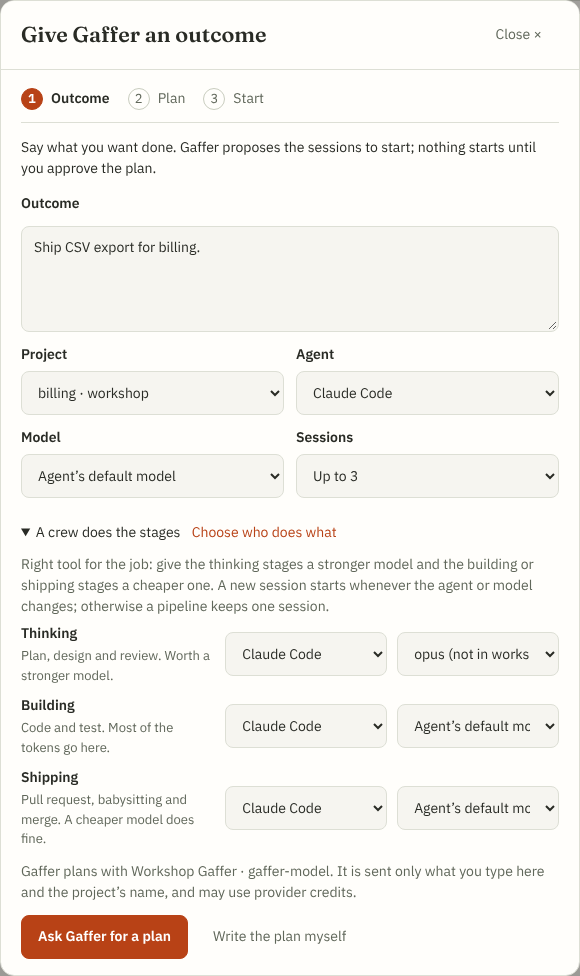
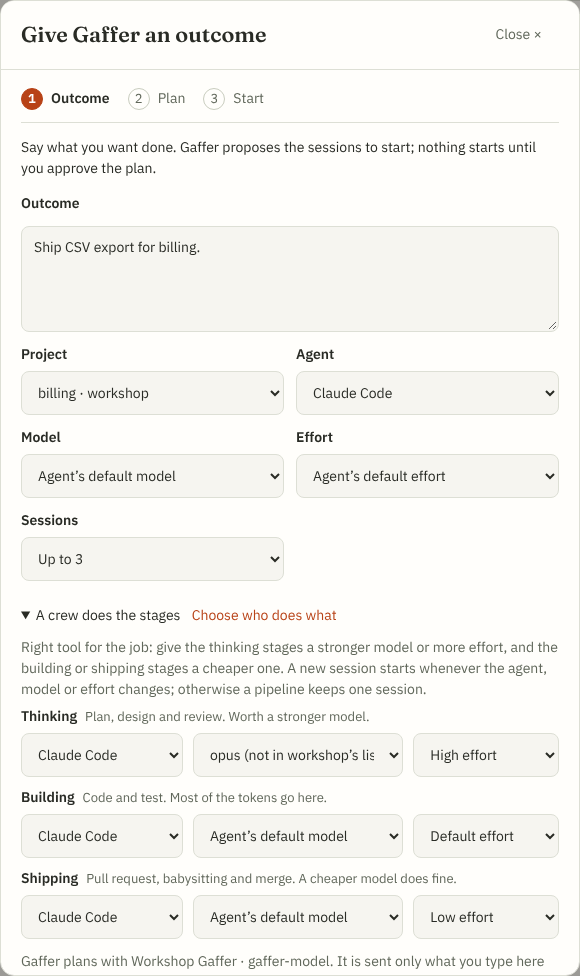
Set effort for an outcome or per crew role
Each stage carries the effort of the crew role that does it, so the thinking
stages can run harder than babysitting and merging. A change of effort
between stages starts a new session, like a change of agent or model.

Claude-Session: https://claude.ai/code/session_011MNNzptsv6jTWLPjXiBdGs

diff --git a/web/src/lib/GafferOutcome.svelte b/web/src/lib/GafferOutcome.svelte
@@ -9,7 +9,7 @@
   import YoloDialog from './launch/YoloDialog.svelte'
   import { yoloCanStart, type YoloGate } from './launchBar'
   import { CATALOGUE } from './catalogue'
-  import type { MachineModels, ModelFavourite } from './models'
+  import { effortChoices, type MachineModels, type ModelFavourite } from './models'
   import WorkspaceDialog from './terminal/WorkspaceDialog.svelte'
   import { readFloorDefaults, writeFloorDefaults } from './gafferFloor'
   import { BUILT_IN_GOAL_PROMPTS } from './gafferPrompts'
@@ -28,7 +28,7 @@
   let maxReviews = $state(12), hours = $state(24)
   let trust = $state(false)
   // The model every stage uses unless a crew role is given its own. Empty is the agent's default.
-  let model = $state('')
+  let model = $state(''), effort = $state('')
   // What each agent offers on the project's machine, read once per agent. A failed read leaves favourites, suggestions and Other.
   let offered = $state<Record<string, MachineModels | null>>({}), favourites = $state<ModelFavourite[]>([])
   // YOLO: the account setting, and whether the person confirmed it for this outcome. It is never remembered.
@@ -171,22 +171,26 @@
               <option value="">Choose a project…</option>
               {#each projects as item (item.id)}<option value={item.id}>{item.name}{item.machine ? ` · ${item.machine}` : ''}</option>{/each}
             </select></label>
-            <label>Agent<select aria-label="Agent" bind:value={tool} disabled={planning || !tools.length} onchange={() => { model = ''; for (const item of CREW_ROLES) crew[item.role] = { tool, model: '' } }}>
+            <label>Agent<select aria-label="Agent" bind:value={tool} disabled={planning || !tools.length} onchange={() => { model = ''; effort = ''; for (const item of CREW_ROLES) crew[item.role] = { tool, model: '', effort: '' } }}>
               {#if !tools.length}<option value="">{project ? 'None available' : 'Choose a project first'}</option>{/if}
               {#each tools as id (id)}<option value={id}>{chatToolName(id)}</option>{/each}
             </select></label>
             <label>Model<GafferModelSelect label="Model" {tool} bind:value={model} machine={offeredFor(tool)} {favourites} host={machine?.host ?? ''} disabled={planning || !tool} onchange={next => { for (const item of CREW_ROLES) if (crew[item.role].tool === tool) crew[item.role].model = next }}/></label>
+            <label>Effort<select aria-label="Effort" bind:value={effort} disabled={planning || effortChoices(tool).length < 2} onchange={() => { for (const item of CREW_ROLES) if (crew[item.role].tool === tool) crew[item.role].effort = effort }}>
+              {#each effortChoices(tool) as level (level)}<option value={level}>{level ? level[0].toUpperCase() + level.slice(1) : effortChoices(tool).length < 2 ? 'Not offered by this agent' : 'Agent’s default effort'}</option>{/each}
+            </select></label>
             <label>Sessions<select aria-label="Sessions" bind:value={wanted} disabled={planning}>
               {#each Array.from({ length: cap }, (_, n) => n + 1) as n (n)}<option value={n}>Up to {n}</option>{/each}
             </select></label>
           </div>
-          <details class="limit-editor crew"><summary>{crewTools.every(id => id === tool) && CREW_ROLES.every(item => !crew[item.role].model.trim()) ? 'One agent does every stage' : 'A crew does the stages'} <span>Choose who does what</span></summary>
-            <p class="hint">Right tool for the job: give the thinking stages a stronger model and the building or shipping stages a cheaper one. A new session starts whenever the agent or model changes; otherwise a pipeline keeps one session.</p>
+          <details class="limit-editor crew"><summary>{crewTools.every(id => id === tool) && CREW_ROLES.every(item => crew[item.role].model.trim() === model.trim() && (crew[item.role].effort ?? '') === effort) ? 'One agent does every stage' : 'A crew does the stages'} <span>Choose who does what</span></summary>
+            <p class="hint">Right tool for the job: give the thinking stages a stronger model or more effort, and the building or shipping stages a cheaper one. A new session starts whenever the agent, model or effort changes; otherwise a pipeline keeps one session.</p>
             <div class="crew-rows">
               {#each CREW_ROLES as item (item.role)}<div class="crew-row" role="group" aria-label={`${item.label} crew`}>
                 <div class="crew-role"><strong>{item.label}</strong><span>{item.does}</span></div>
-                <select aria-label={`${item.label} agent`} bind:value={crew[item.role].tool} disabled={planning || !tools.length} onchange={() => { crew[item.role].model = crew[item.role].tool === tool ? model : '' }}>{#each tools as id (id)}<option value={id}>{chatToolName(id)}</option>{/each}</select>
+                <select aria-label={`${item.label} agent`} bind:value={crew[item.role].tool} disabled={planning || !tools.length} onchange={() => { const same = crew[item.role].tool === tool; crew[item.role].model = same ? model : ''; crew[item.role].effort = same ? effort : '' }}>{#each tools as id (id)}<option value={id}>{chatToolName(id)}</option>{/each}</select>
                 <GafferModelSelect label={`${item.label} model`} tool={crew[item.role].tool} bind:value={crew[item.role].model} machine={offeredFor(crew[item.role].tool)} {favourites} host={machine?.host ?? ''} disabled={planning}/>
+                <select aria-label={`${item.label} effort`} bind:value={crew[item.role].effort} disabled={planning || effortChoices(crew[item.role].tool).length < 2}>{#each effortChoices(crew[item.role].tool) as level (level)}<option value={level}>{level ? `${level[0].toUpperCase()}${level.slice(1)} effort` : effortChoices(crew[item.role].tool).length < 2 ? 'No effort setting' : 'Default effort'}</option>{/each}</select>
               </div>{/each}
             </div>
           </details>
@@ -262,9 +266,9 @@
   .add{justify-self:start}
   .limit-editor summary{min-height:44px;display:list-item;align-content:center;cursor:pointer;font-variant-numeric:tabular-nums}.limit-editor summary span{color:var(--accent-text);margin-left:8px}
   .steps{list-style:none;display:flex;gap:6px 18px;flex-wrap:wrap;margin:0;padding:0 0 12px;border-bottom:1px solid var(--line);color:var(--muted);font-size:0.875rem}.steps li{display:flex;align-items:center;gap:8px}.steps .n{display:inline-grid;place-items:center;width:22px;height:22px;border-radius:50%;border:1px solid var(--line-strong);font-variant-numeric:tabular-nums;font-size:0.8125rem}.steps li[aria-current]{color:var(--ink);font-weight:600}.steps li[aria-current] .n,.steps li.done .n{background:var(--accent);border-color:var(--accent);color:var(--accent-ink)}
-  .crew-rows{display:grid;gap:10px;padding-top:6px}.crew-row{display:grid;grid-template-columns:1.2fr 1fr 1fr;gap:10px;align-items:center}.crew-role{display:grid;gap:2px;min-width:0}.crew-role span{font-size:0.8125rem;color:var(--muted);font-weight:400}
+  .crew-rows{display:grid;gap:10px;padding-top:6px}.crew-row{display:grid;grid-template-columns:1fr 1.3fr .9fr;gap:6px 10px;align-items:start}.crew-role{grid-column:1/-1;display:flex;flex-wrap:wrap;align-items:baseline;gap:2px 8px;min-width:0}.crew-role span{font-size:0.8125rem;color:var(--muted);font-weight:400}
   .stage-pick{display:flex;flex-wrap:wrap;gap:6px}.stage-chip{font:inherit;font-size:0.875rem;min-height:36px;padding:4px 12px;border-radius:999px;border:1px solid var(--line);background:var(--bg);color:var(--muted);cursor:pointer}.stage-chip[aria-pressed=true]{background:var(--tint);border-color:var(--accent);color:var(--ink);font-weight:600}
-  @media(max-width:559px){.crew-row{grid-template-columns:1fr}}@media(pointer:coarse){.stage-chip{min-height:44px}}
+  @media(max-width:479px){.crew-row{grid-template-columns:1fr}}@media(pointer:coarse){.stage-chip{min-height:44px}}
   .approvals{border:0;margin:0;padding:0;display:grid;gap:6px;min-width:0}.approvals legend{font-weight:600;padding:0;margin-bottom:6px}
   .choice{display:inline-flex;border:1px solid var(--line);border-radius:10px;overflow:hidden;justify-self:start}.choice label{display:flex;align-items:center;gap:8px;min-height:44px;padding:0 16px;font-weight:600;cursor:pointer;color:var(--muted)}.choice label+label{border-left:1px solid var(--line)}.choice label.on{background:var(--tint);color:var(--ink)}.choice label.off{cursor:not-allowed;opacity:.6}.choice input{width:18px;height:18px;min-height:0;margin:0;padding:0;accent-color:var(--accent)}
   .hint.warn{color:var(--warn)}

diff --git a/web/src/lib/api.ts b/web/src/lib/api.ts
@@ -253,13 +253,13 @@ export type GafferOutcomePlan = { summary: string; sessions: { title: string; pr
 export async function planGafferOutcome(p: GafferProvider, input: { objective: string; project: string; sessions: number }, signal?: AbortSignal): Promise<GafferOutcomePlan> {
   return (await req(`/api/v2/gaffer/providers/${encodeURIComponent(p.id)}/plan`, { method: 'POST', body: json({ revision: p.revision, ...input }), signal })).json()
 }
-export type GafferOutcomeStage = { kind: string; tool: string; model?: string; state: 'pending' | 'running' | 'done'; sessionId?: string; conversationId?: string; summary?: string; startedAt?: number; endedAt?: number; reviews?: number; inputTokens?: number; outputTokens?: number; usageReported?: boolean }
+export type GafferOutcomeStage = { kind: string; tool: string; model?: string; effort?: string; state: 'pending' | 'running' | 'done'; sessionId?: string; conversationId?: string; summary?: string; startedAt?: number; endedAt?: number; reviews?: number; inputTokens?: number; outputTokens?: number; usageReported?: boolean }
 /** Gaffer's account of a whole outcome, with pipelines it suggests adding. A proposal is nothing until the person approves it. */
 export type GafferOutcomeReport = { text: string; at: number; model: string; inputTokens: number; outputTokens: number; usageReported: boolean; proposals?: { title: string; prompt: string; stages?: string[]; why?: string }[] }
 export type GafferOutcomeSession = { key: string; title: string; prompt: string; state: 'waiting' | 'starting' | 'following' | 'advancing' | 'ready_to_merge' | 'done' | 'unfollowed' | 'failed' | 'cancelled'; note: string; sessionId?: string; conversationId?: string; updatedAt: number; stages?: GafferOutcomeStage[]; stage?: number; workDir?: string; autoMerge?: boolean; mergeApproved?: boolean }
 /** An approved plan the controller starts and follows. `state` is "starting" while it still has sessions to start. */
 export type GafferOutcome = { id: string; revision: number; objective: string; state: 'starting' | 'settled' | 'stopped'; note: string; agentId: string; projectId: string; projectName: string; dir: string; tool: string; model?: string; trust?: boolean; yolo?: boolean; providerId: string; maxReviews: number; hours: number; sessions: GafferOutcomeSession[]; report?: GafferOutcomeReport; createdAt: number; updatedAt: number }
-export type GafferOutcomeInput = { objective: string; projectId: string; tool: string; model: string; trust: boolean; yolo?: boolean; autoMerge: boolean; sessions: { title: string; prompt: string; stages?: { kind: string; tool: string; model: string }[] }[]; maxReviews: number; hours: number; confirmed: true }
+export type GafferOutcomeInput = { objective: string; projectId: string; tool: string; model: string; trust: boolean; yolo?: boolean; autoMerge: boolean; sessions: { title: string; prompt: string; stages?: { kind: string; tool: string; model: string; effort?: string }[] }[]; maxReviews: number; hours: number; confirmed: true }
 const outcomePath = (id: string) => `/api/v2/gaffer/outcomes/${encodeURIComponent(id)}`
 /** Tries a stopped pipeline again. A step that never started is asked for afresh; a session that did start is kept. */
 export async function retryGafferPipeline(o: Pick<GafferOutcome, 'id' | 'revision'>, key: string, signal?: AbortSignal): Promise<GafferOutcome> { return (await req(`${outcomePath(o.id)}/sessions/${encodeURIComponent(key)}/retry`, { method: 'POST', body: json({ revision: o.revision }), signal })).json() }

diff --git a/web/src/lib/gafferOutcome.ts b/web/src/lib/gafferOutcome.ts
@@ -209,7 +209,7 @@ export const STAGES = [
 ] as const
 export type StageKind = typeof STAGES[number]['kind']
 export type CrewRole = 'think' | 'build' | 'ship'
-export type Crew = Record<CrewRole, { tool: string; model: string }>
+export type Crew = Record<CrewRole, { tool: string; model: string; effort?: string }>
 export const CREW_ROLES: { role: CrewRole; label: string; does: string }[] = [
   { role: 'think', label: 'Thinking', does: 'Plan, design and review. Worth a stronger model.' },
   { role: 'build', label: 'Building', does: 'Code and test. Most of the tokens go here.' },
@@ -226,16 +226,16 @@ export function orderStages(kinds: Iterable<string>): StageKind[] {
 }
 
 /** What is sent for one pipeline: each chosen stage with the agent and model of the crew role that does it. */
-export function stagePlan(kinds: Iterable<string>, crew: Crew): { kind: string; tool: string; model: string }[] {
+export function stagePlan(kinds: Iterable<string>, crew: Crew): { kind: string; tool: string; model: string; effort?: string }[] {
   return orderStages(kinds).map(kind => {
     const role = STAGES.find(stage => stage.kind === kind)!.role
-    return { kind, tool: crew[role].tool, model: crew[role].model.trim() }
+    return { kind, tool: crew[role].tool, model: crew[role].model.trim(), ...(crew[role].effort ? { effort: crew[role].effort } : {}) }
   })
 }
 
-/** How many separate agent sessions a pipeline will use: a new one each time the agent or model changes. */
-export function sessionCount(plan: { tool: string; model: string }[]): number {
-  return plan.reduce((count, stage, index) => count + (index === 0 || stage.tool !== plan[index - 1].tool || stage.model !== plan[index - 1].model ? 1 : 0), 0)
+/** How many separate agent sessions a pipeline will use: a new one each time the agent, model or effort changes. */
+export function sessionCount(plan: { tool: string; model: string; effort?: string }[]): number {
+  return plan.reduce((count, stage, index) => count + (index === 0 || stage.tool !== plan[index - 1].tool || stage.model !== plan[index - 1].model || (stage.effort ?? '') !== (plan[index - 1].effort ?? '') ? 1 : 0), 0)
 }
 
 export type TrackNode = { kind: string; label: string; state: 'done' | 'running' | 'waiting' | 'pending' | 'failed'; tool: string; model: string; summary: string }

diff --git a/web/src/lib/factory/Factory.svelte b/web/src/lib/factory/Factory.svelte
@@ -128,7 +128,7 @@
   const crew = (piece: GafferOutcomeSession, record: Outcome) => {
     const stage = piece.stages?.[piece.stage ?? 0]
     const tool = stage?.tool ?? record.tool, model = stage?.model ?? record.model ?? ''
-    return `${chatToolName(tool)}${model ? ` · ${model}` : ''}`
+    return `${chatToolName(tool)}${model ? ` · ${model}` : ''}${stage?.effort ? ` · ${stage.effort} effort` : ''}`
   }
 </script>
 

diff --git a/internal/gaffer/outcome_runs.go b/internal/gaffer/outcome_runs.go
@@ -20,7 +20,7 @@ import (
 
 // OutcomeLaunch is one approved session for the launch path to start.
 type OutcomeLaunch struct {
-	AgentID, RequestID, Title, Tool, Model, Dir, ProjectID, Prompt string
+	AgentID, RequestID, Title, Tool, Model, Effort, Dir, ProjectID, Prompt string
 	// LinkProjectID ties a later stage's session to the outcome's project in
 	// the session list. It is not a project launch: no worktree is made for it.
 	LinkProjectID string
@@ -71,6 +71,8 @@ type OutcomeStageInput struct {
 	Kind  string `json:"kind"`
 	Tool  string `json:"tool,omitempty"`
 	Model string `json:"model,omitempty"`
+	// Effort is how hard the stage's agent thinks: empty for its own default.
+	Effort string `json:"effort,omitempty"`
 }
 
 // StageKinds is the order a pipeline runs in. A pipeline may leave stages
@@ -279,6 +281,9 @@ func outcomePieces(items []OutcomeSession, tool, model string, autoMerge bool, t
 			if stageTool == "" {
 				stageTool, stageModel = tool, model
 			}
+			if stage.Effort != "" && (!terminalproto.ValidEffort(stage.Effort) || !terminalproto.ToolTakesEffort(stageTool)) {
+				return nil, invalid("sessions", "Choose low, medium or high effort, for an agent that takes one, in “"+title+"”.")
+			}
 			if !terminalproto.ReviewedChatTool(stageTool) || stageModel != "" && !terminalproto.ValidModel(stageModel) {
 				return nil, invalid("sessions", "Choose an agent that can run a Gaffer chat, and a model name it accepts, for every stage of “"+title+"”.")
 			}
@@ -286,7 +291,7 @@ func outcomePieces(items []OutcomeSession, tool, model string, autoMerge bool, t
 			if err != nil {
 				return nil, err
 			}
-			piece.Stages = append(piece.Stages, store.GafferOutcomeStage{Kind: stage.Kind, Tool: stageTool, Model: stageModel, RequestID: id})
+			piece.Stages = append(piece.Stages, store.GafferOutcomeStage{Kind: stage.Kind, Tool: stageTool, Model: stageModel, Effort: stage.Effort, RequestID: id})
 		}
 		if len(piece.Stages) > 0 {
 			piece.Stages[0].RequestID = request
@@ -627,8 +632,8 @@ func (s *Service) advancePipeline(ctx context.Context, o store.GafferOutcome, it
 	if next > 0 {
 		prev = item.Stages[next-1]
 	}
-	if next > 0 && prev.State == "done" && prev.Tool == stage.Tool && prev.Model == stage.Model && item.ConversationID != "" {
-		// Same agent and model: the session carries on, under a fresh goal and budget for the new stage.
+	if next > 0 && prev.State == "done" && prev.Tool == stage.Tool && prev.Model == stage.Model && prev.Effort == stage.Effort && item.ConversationID != "" {
+		// Same agent, model and effort: the session carries on, under a fresh goal and budget for the new stage.
 		v, err := s.Goal(uid, item.ConversationID)
 		if err == nil && v.SetupAllowed {
 			in := GoalSetupInput{GoalInput: GoalInput{GoalPins: v.Pins, Text: goal, MaxReviews: o.MaxReviews, Hours: o.Hours}, ConversationRevision: v.ConversationRevision, Confirmed: true, Action: "start"}
@@ -683,6 +688,7 @@ func (s *Service) runOutcomeSession(ctx context.Context, o store.GafferOutcome, 
 	if staged {
 		stage := item.Stages[item.Stage]
 		launch.RequestID, launch.Tool, launch.Model, launch.Prompt = stage.RequestID, stage.Tool, stage.Model, stagePrompt(o, item, item.Stage)
+		launch.Effort = stage.Effort
 		launch.Trust = o.Trust && (stage.Tool == "opencode" || stage.Tool == "antigravity")
 		launch.Title = clipBytes(item.Title, 60) + " · " + stage.Kind
 		goal = StageGoal(o.Objective, item.Title, stage.Kind)

diff --git a/internal/gaffer/outcome_runs_test.go b/internal/gaffer/outcome_runs_test.go
@@ -833,3 +833,36 @@ func TestYoloIsThePersonsChoiceAndReachesEveryStageLaunch(t *testing.T) {
 		t.Fatalf("yolo launches: %+v", asked)
 	}
 }
+
+func TestAStageRunsAtItsOwnEffort(t *testing.T) {
+	r := outcomeFixture(t)
+	r.s.StartGoalSupervisor()
+	in := pipelineInput(r, false)
+	for i := range in.Sessions[0].Stages {
+		in.Sessions[0].Stages[i].Tool, in.Sessions[0].Stages[i].Model = "claude", ""
+	}
+	in.Sessions[0].Stages[0].Effort = "high"
+	created, err := r.s.CreateOutcome(r.p.UserID, in)
+	if err != nil {
+		t.Fatal(err)
+	}
+	deadline := time.Now().Add(10 * time.Second)
+	for len(r.starter.asked()) == 0 && time.Now().Before(deadline) {
+		time.Sleep(20 * time.Millisecond)
+	}
+	asked := r.starter.asked()
+	if len(asked) != 1 || asked[0].Effort != "high" || asked[0].Tool != "claude" {
+		t.Fatalf("effort launch: %+v", asked)
+	}
+	if view, err := r.s.Outcome(r.p.UserID, created.ID); err != nil || view.Sessions[0].Stages[0].Effort != "high" || view.Sessions[0].Stages[1].Effort != "" {
+		t.Fatalf("saved efforts: %+v %v", view, err)
+	}
+	// An effort the agent cannot take, or one reet does not know, is refused before anything is saved.
+	for _, bad := range []struct{ tool, effort string }{{"opencode", "high"}, {"claude", "enormous"}} {
+		in := pipelineInput(r, false)
+		in.Sessions[0].Stages[0].Tool, in.Sessions[0].Stages[0].Model, in.Sessions[0].Stages[0].Effort = bad.tool, "", bad.effort
+		if _, err := r.s.CreateOutcome(r.p.UserID, in); err == nil {
+			t.Fatalf("%+v was accepted", bad)
+		}
+	}
+}

diff --git a/internal/api/gaffer_outcomes.go b/internal/api/gaffer_outcomes.go
@@ -234,7 +234,7 @@ func (o outcomeStarter) StartOutcomeSession(ctx context.Context, uid int64, in g
 	if !s.terminalEnabled() || s.terminals == nil {
 		return "", "", errors.New("Remote sessions are disabled on this controller.")
 	}
-	create := terminalproto.Create{Title: in.Title, Cols: 100, Rows: 30, Tool: in.Tool, Model: in.Model, Dir: in.Dir, Prompt: in.Prompt, ProjectID: in.ProjectID, Structured: true, Trust: in.Trust, Yolo: in.Yolo}
+	create := terminalproto.Create{Title: in.Title, Cols: 100, Rows: 30, Tool: in.Tool, Model: in.Model, Effort: in.Effort, Dir: in.Dir, Prompt: in.Prompt, ProjectID: in.ProjectID, Structured: true, Trust: in.Trust, Yolo: in.Yolo}
 	create.Title, create.TitleOrigin = terminalproto.ResolveTitle(in.Title, "", in.Tool, in.Prompt, in.Dir)
 	refusal := func(err error) (string, string, error) {
 		capture := &replyCapture{header: http.Header{}}

diff --git a/internal/store/store_gaffer_outcomes.go b/internal/store/store_gaffer_outcomes.go
@@ -37,6 +37,7 @@ type GafferOutcomeStage struct {
 	Kind           string `json:"kind"`
 	Tool           string `json:"tool"`
 	Model          string `json:"model,omitempty"`
+	Effort         string `json:"effort,omitempty"`
 	State          string `json:"state"`
 	RequestID      string `json:"requestId"`
 	SessionID      string `json:"sessionId,omitempty"`

diff --git a/docs/handoffs/gaffer-factory-floor.md b/docs/handoffs/gaffer-factory-floor.md
@@ -516,7 +516,13 @@ instance.
 - The Sessions page list does not carry the marker yet, only Home.
 - A manual Gaffer chat in a pipeline's session is not told about the pipeline's
   stages, so it cannot answer "where are we" (the owner saw this).
-- Effort per crew role is not offered.
+- Effort per crew role was added in the same PR at the owner's request:
+  `OutcomeStageInput.Effort` → `GafferOutcomeStage.Effort` → `OutcomeLaunch.Effort`
+  → `terminalproto.Create.Effort`, validated with `ValidEffort` and
+  `ToolTakesEffort`; a stage keeps the previous stage's session only when agent,
+  model **and effort** match. The dialog offers it for the main agent and each
+  role, from the web catalogue's effort flag, so OpenCode (no launch effort in
+  `agentOptions`) shows none even though its live chat has an effort control.
 
 ## Not done, for the next slice
 

diff --git a/CHANGELOG.md b/CHANGELOG.md
@@ -9,7 +9,8 @@ this file existed releases were described on their GitHub release pages.
   approval. It shows **Needs you** with the reason and carries on by itself once
   you answer. An outcome can be approved to run on **YOLO** (off by default,
   confirmed each time, only where the account, machine and agents allow it). The
-  agent lists now offer the machine's real **models**. Home marks a session that
+  agent lists now offer the machine's real **models**, and an **effort** for the
+  outcome or per crew role. Home marks a session that
   is part of a pipeline (**Factory · stage n of m**). Needs a controller update.
 - Factory: each outcome and pipeline now shows what Gaffer's own model has used
   (reviews and tokens) and what is left of the stage's budget. Tokens only; reet

diff --git a/docs/gaffer-ai.md b/docs/gaffer-ai.md
@@ -253,6 +253,11 @@ project's machine, your favourites and reet's suggestions; **Other…** takes a
 name none of them has. The model beside the main agent applies to every stage
 until you give a crew role its own.
 
+**Effort** works the same way, for agents that take one: set it for the whole
+outcome beside the main agent, or per crew role, so the thinking stages can run
+at high effort while babysitting and merging run at low. A change of agent,
+model or effort between two stages starts a new session for the later one.
+
 A session that is part of a pipeline is marked **Factory · stage n of m** on
 Home, in Continue working and on the planning board, with a link to the Factory.
 
